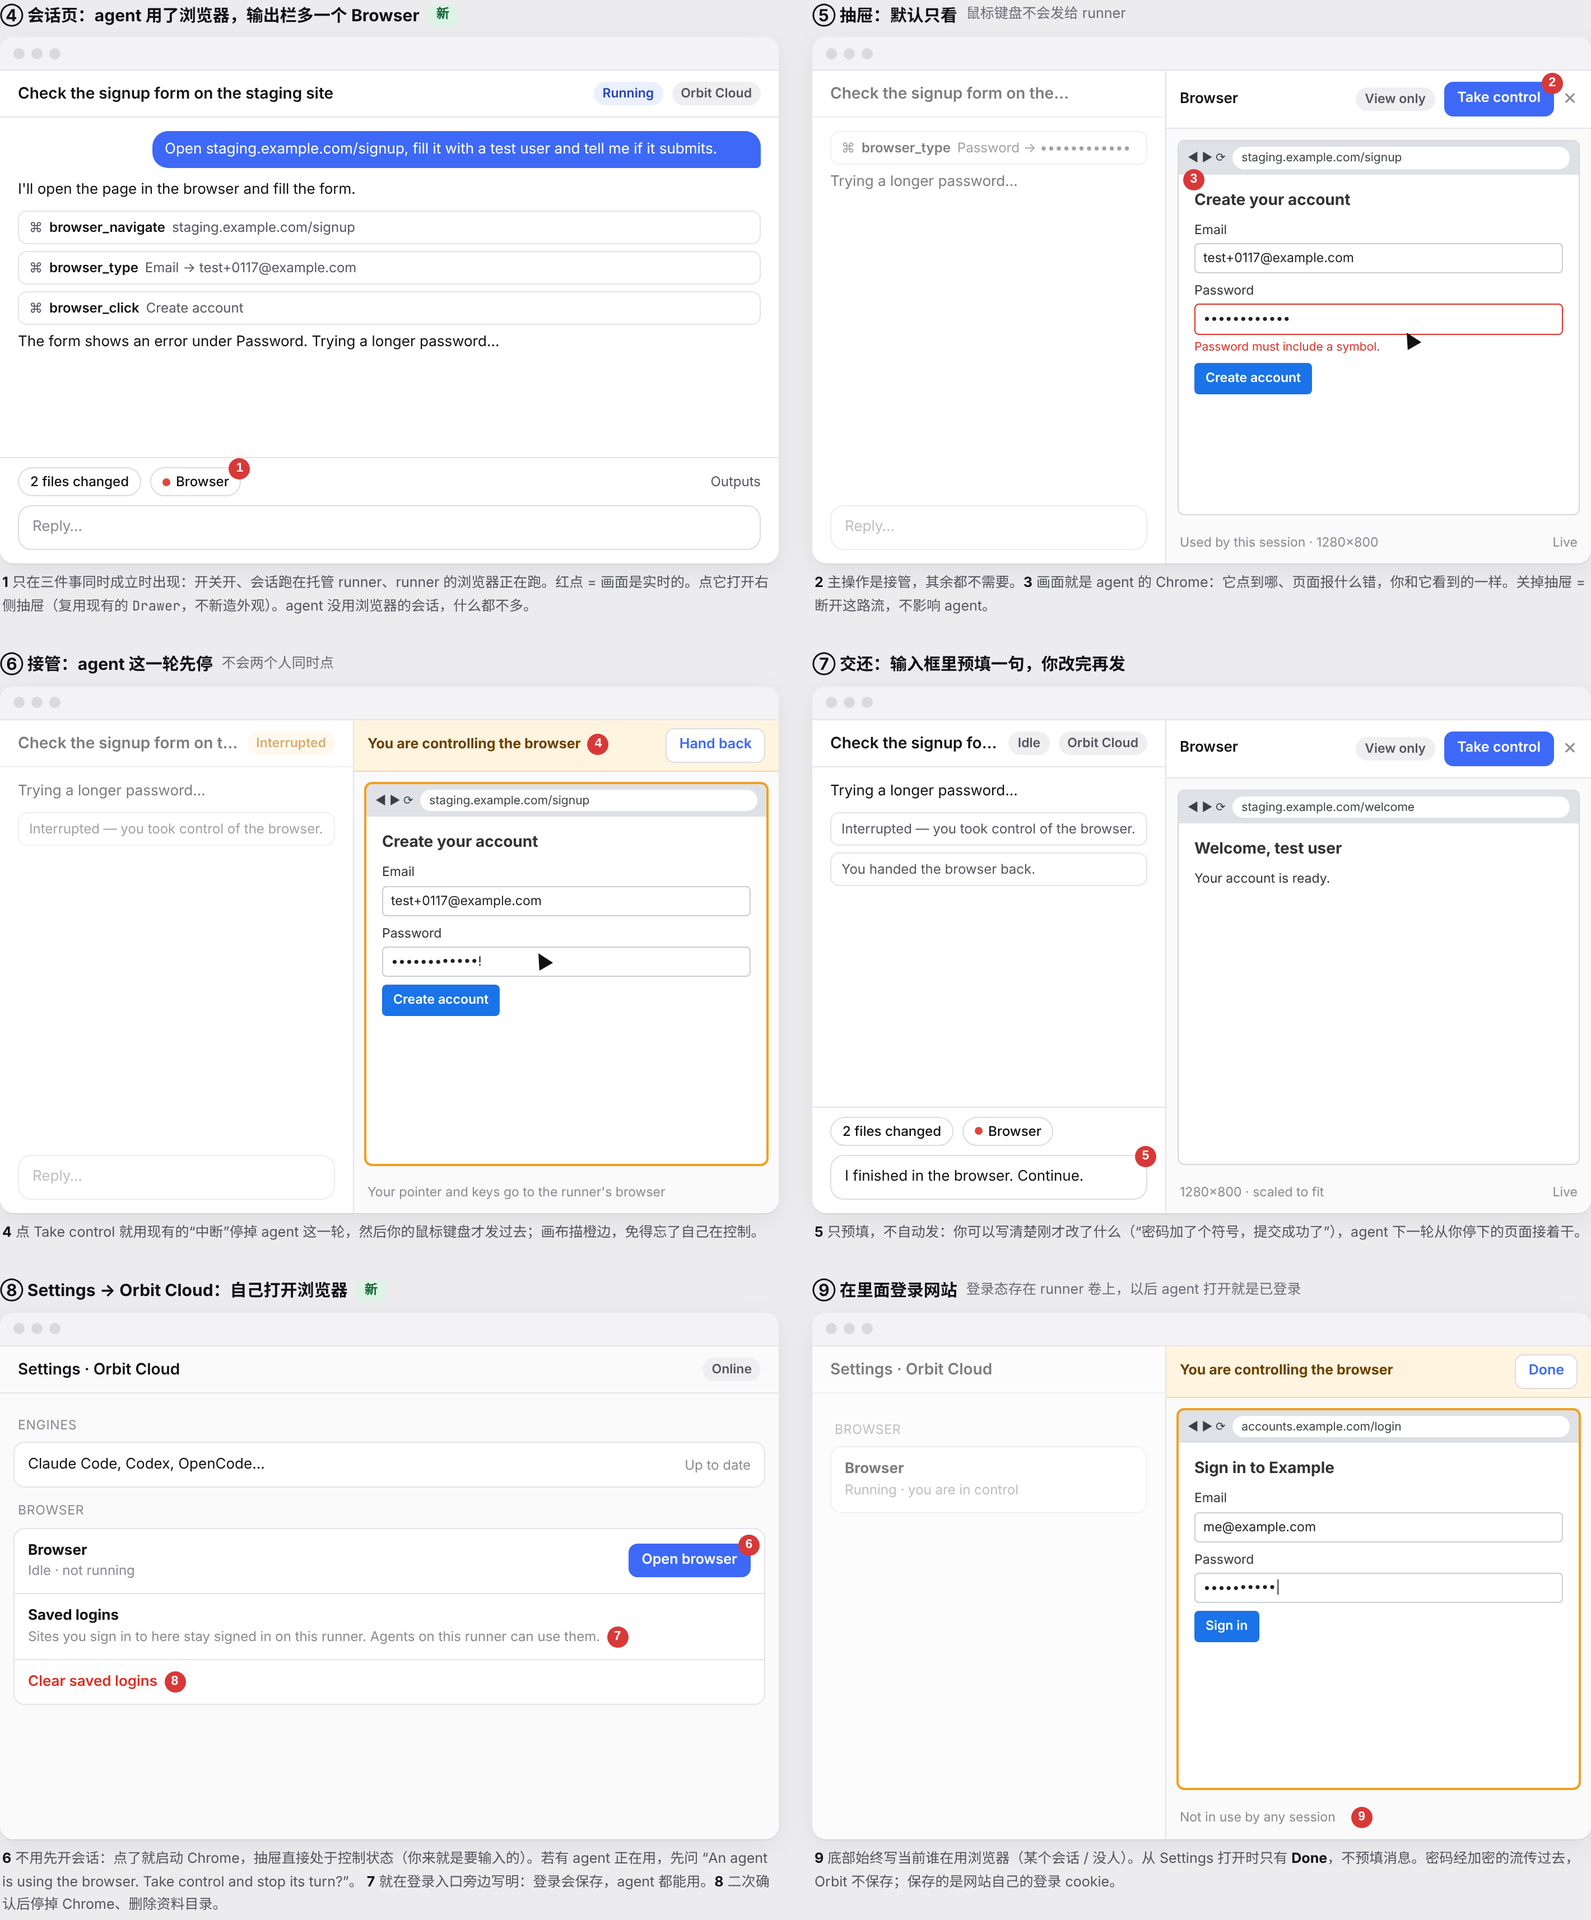
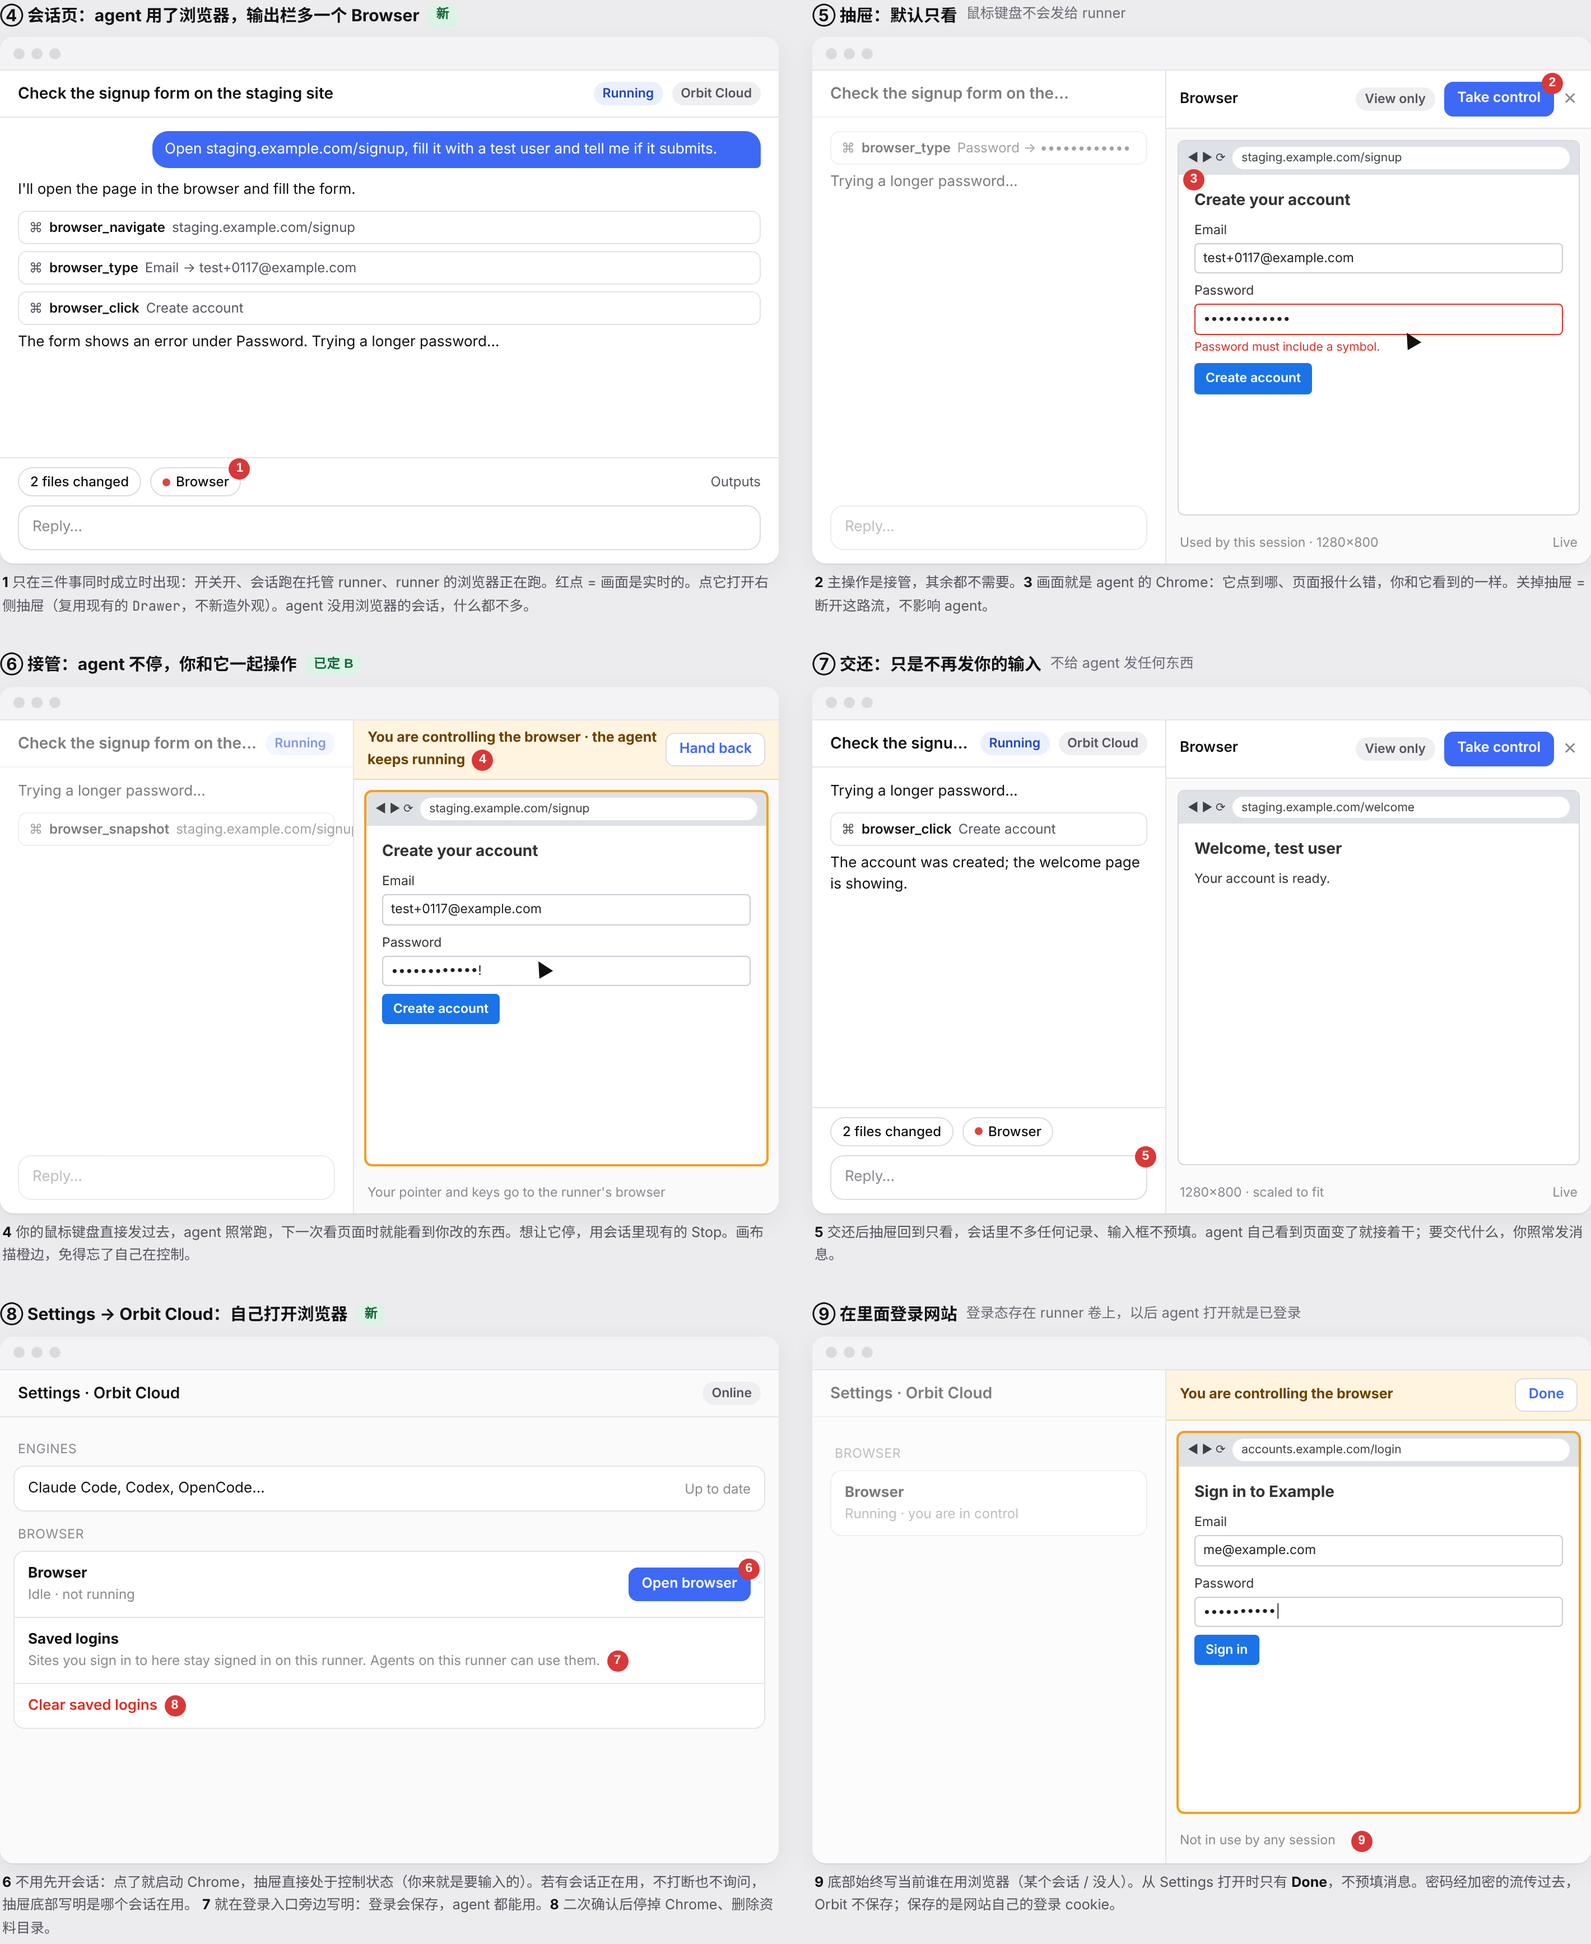
docs(runner-browser): owner decisions P1 A, P3 B (shared input), P4 A, P5 A

diff --git a/docs/mocks/runner-browser/01-board.html b/docs/mocks/runner-browser/01-board.html
@@ -226,17 +226,17 @@
     </div>
 
     <div>
-      <div class="fh">⑥ 接管：agent 这一轮先停 <small>不会两个人同时点</small></div>
+      <div class="fh">⑥ 接管：agent 不停，你和它一起操作 <span class="tag">已定 B</span></div>
       <div class="win">
         <div class="top"><i></i><i></i><i></i></div>
         <div class="body">
           <div class="main" style="opacity:.55">
-            <div class="hd"><span class="tt">Check the signup form on the…</span><span class="pill p-warn">Interrupted</span></div>
-            <div class="tx"><div class="ans">Trying a longer password…</div><div class="tool">Interrupted — you took control of the browser.</div></div>
+            <div class="hd"><span class="tt">Check the signup form on the…</span><span class="pill p-run">Running</span></div>
+            <div class="tx"><div class="ans">Trying a longer password…</div><div class="tool">⌘ <b>browser_snapshot</b> staging.example.com/signup</div></div>
             <div class="composer">Reply…</div>
           </div>
           <div class="drawer">
-            <div class="ctrlbar"><b class="x xin" data-n="4">You are controlling the browser</b><span class="btn">Hand back</span></div>
+            <div class="ctrlbar"><b class="x xin" data-n="4">You are controlling the browser · the agent keeps running</b><span class="btn">Hand back</span></div>
             <div class="canvas ctl">
               <div class="cbar">◀ ▶ ⟳ <span class="url">staging.example.com/signup</span></div>
               <div class="site">
@@ -251,23 +251,23 @@
           </div>
         </div>
       </div>
-      <p class="note"><b>4</b> 点 Take control 就用现有的“中断”停掉 agent 这一轮，然后你的鼠标键盘才发过去；画布描橙边，免得忘了自己在控制。</p>
+      <p class="note"><b>4</b> 你的鼠标键盘直接发过去，agent 照常跑，下一次看页面时就能看到你改的东西。想让它停，用会话里现有的 Stop。画布描橙边，免得忘了自己在控制。</p>
     </div>
 
     <div>
-      <div class="fh">⑦ 交还：输入框里预填一句，你改完再发</div>
+      <div class="fh">⑦ 交还：只是不再发你的输入 <small>不给 agent 发任何东西</small></div>
       <div class="win">
         <div class="top"><i></i><i></i><i></i></div>
         <div class="body">
           <div class="main">
-            <div class="hd"><span class="tt">Check the signup form on the staging site</span><span class="pill p-ok">Idle</span><span class="pill p-ok">Orbit Cloud</span></div>
+            <div class="hd"><span class="tt">Check the signup form on the staging site</span><span class="pill p-run">Running</span><span class="pill p-ok">Orbit Cloud</span></div>
             <div class="tx">
               <div class="ans">Trying a longer password…</div>
-              <div class="tool">Interrupted — you took control of the browser.</div>
-              <div class="tool">You handed the browser back.</div>
+              <div class="tool">⌘ <b>browser_click</b> Create account</div>
+              <div class="ans">The account was created; the welcome page is showing.</div>
             </div>
             <div class="outbar"><span class="chip">2 files changed</span><span class="chip live">Browser</span></div>
-            <div class="composer filled x" data-n="5">I finished in the browser. Continue.</div>
+            <div class="composer x" data-n="5">Reply…</div>
           </div>
           <div class="drawer">
             <div class="dh"><span class="tt">Browser</span><span class="pill p-ok">View only</span><span class="btn pri">Take control</span><span class="cl">✕</span></div>
@@ -279,7 +279,7 @@
           </div>
         </div>
       </div>
-      <p class="note"><b>5</b> 只预填，不自动发：你可以写清楚刚才改了什么（“密码加了个符号，提交成功了”），agent 下一轮从你停下的页面接着干。</p>
+      <p class="note"><b>5</b> 交还后抽屉回到只看，会话里不多任何记录、输入框不预填。agent 自己看到页面变了就接着干；要交代什么，你照常发消息。</p>
     </div>
 
     <div>
@@ -302,7 +302,7 @@
           </div>
         </div></div>
       </div>
-      <p class="note"><b>6</b> 不用先开会话：点了就启动 Chrome，抽屉直接处于控制状态（你来就是要输入的）。若有 agent 正在用，先问 “An agent is using the browser. Take control and stop its turn?”。
+      <p class="note"><b>6</b> 不用先开会话：点了就启动 Chrome，抽屉直接处于控制状态（你来就是要输入的）。若有会话正在用，不打断也不询问，抽屉底部写明是哪个会话在用。
         <b>7</b> 就在登录入口旁边写明：登录会保存，agent 都能用。<b>8</b> 二次确认后停掉 Chrome、删除资料目录。</p>
     </div>
 
@@ -339,14 +339,14 @@
 <section class="part" id="part-3">
   <div class="two">
     <div class="sheet">
-      <h2>待定 · 要你拍板</h2>
+      <h2>已定（2026-11-17）</h2>
       <table>
         <tr><th>#</th><th style="white-space:nowrap">问题</th><th>方案 A</th><th>方案 B</th><th>建议</th></tr>
-        <tr><td>P1</td><td style="white-space:nowrap">镜像</td><td>一个镜像，浏览器一直在里面，开关开了才启动</td><td>另出一个 <code>-browser</code> 镜像，开了才用它</td><td><b>A</b>：只构建、只测一个；代价是每台主机多拉约 350 MB（默认部署也会拉到，但不运行）</td></tr>
+        <tr><td>P1</td><td style="white-space:nowrap">镜像</td><td>一个镜像，浏览器一直在里面，开关开了才启动</td><td>另出一个 <code>-browser</code> 镜像，开了才用它</td><td><span class="tag">已定 A</span> 每台主机多拉约 350 MB，默认部署不运行</td></tr>
         <tr><td>P2</td><td>显示</td><td>每个会话一个，按需启动</td><td>每台 runner 一个，会话共用</td><td><span class="tag">已定 B</span> 你登录的、agent 登录的都保存；同一时间一个会话用</td></tr>
-        <tr><td>P3</td><td>接管</td><td>中断 agent 这一轮再交给你</td><td>你和 agent 同时操作</td><td><b>A</b>：不抢鼠标；复用现有中断</td></tr>
-        <tr><td>P4</td><td style="white-space:nowrap">谁能看</td><td>只有 runner 本人</td><td>本人和会话访客</td><td><b>A</b>（v1）：画面里可能有登录态</td></tr>
-        <tr><td>P5</td><td style="white-space:nowrap">首期客户端</td><td>只做网页</td><td>网页 + macOS</td><td><b>A</b>：原生端以后用 web view 套同一个 noVNC 页</td></tr>
+        <tr><td>P3</td><td>接管</td><td>中断 agent 这一轮再交给你</td><td>你和 agent 同时操作</td><td><span class="tag">已定 B</span> 接管不停 agent；要停用会话的 Stop</td></tr>
+        <tr><td>P4</td><td style="white-space:nowrap">谁能看</td><td>只有 runner 本人</td><td>本人和会话访客</td><td><span class="tag">已定 A</span> 画面里可能有登录态</td></tr>
+        <tr><td>P5</td><td style="white-space:nowrap">首期客户端</td><td>只做网页</td><td>网页 + macOS</td><td><span class="tag">已定 A</span> 原生端以后用 web view 套同一个页</td></tr>
       </table>
       <div class="q"><b>资源：</b>整台 runner 只有一个 Chrome，约 0.5–1.5 GiB，运营方把 runner 内存上限调高约 1.5 GiB。
         <br><b>安全：</b>不开入站端口、不改防火墙；VNC 只在容器内 unix socket 上，每路流先过 apiserver 鉴权；不录屏。保存的登录在 runner 卷上，runner 上所有 agent 都能用，Settings 里可一键清除。</div>

diff --git a/docs/runner-browser-design.md b/docs/runner-browser-design.md
@@ -1,6 +1,6 @@
 # Orbit Cloud browser: design (v1)
 
-**Status:** proposal (2026-11-17), nothing built. Board: `docs/mocks/runner-browser/`.
+**Status:** **decided** (owner, 2026-11-17), nothing built. P1 A, P2 B, P3 B, P4 A, P5 A. Board: `docs/mocks/runner-browser/`.
 
 An agent on an Orbit Cloud runner (the account's managed runner) drives a real Chrome, and the owner watches that
 Chrome live in their own browser and can take control of it. When the agent's run does not go as expected, the owner
@@ -12,7 +12,8 @@ Owner requirements (2026-11-17):
 - the feature **can be switched off**; it can be switched on **only for Orbit Cloud** (managed runners), and a
   default deployment has it **off**;
 - the owner can **open the browser themselves** and sign in to sites; those logins are kept and the agents use them;
-- the **whole runner shares one browser** (P2 = B): one Chrome, one saved profile, one session using it at a time.
+- the **whole runner shares one browser** (P2 = B): one Chrome, one saved profile, one session using it at a time;
+- **taking control does not stop the agent** (P3 = B): the owner's input and the agent's run side by side.
 
 ## 1. Today
 
@@ -63,7 +64,8 @@ runner over the existing link, and a viewer in the client.
 - **One session at a time (the browser lease).** The first session whose agent calls a browser tool holds the lease
   until its turn ends or it has made no browser call for 5 minutes. Another session's browser call meanwhile returns a
   tool error naming the holder ("The browser is in use by session …; try again after it finishes"), so the agent can
-  wait or do other work. The owner is never refused: taking control interrupts the holder's turn (§5).
+  wait or do other work. The owner is never refused and never takes the lease: their input goes to the browser
+  whoever holds it (§5).
 - **Shared state is accepted.** Sessions see each other's tabs, history and logins. Every agent on the runner can act
   on any site the profile is signed in to; the UI says so where the owner signs in (§5).
 - **Chrome flags.** `--no-sandbox` (the container drops every capability and sets `no-new-privileges`, so Chrome's
@@ -115,15 +117,14 @@ Two ways in, one viewer (the existing right-side `Drawer` with a noVNC canvas, `
   ("Sites you sign in to here stay signed in on this runner. Agents on this runner can use them."), and
   **Clear saved logins**, which stops Chrome and deletes the profile after a confirmation.
 
-Control:
+Control (P3 = B, shared input):
 
 - **View only by default** from a session. **Take control** sends pointer and keys; the header then says "You are
-  controlling the browser".
-- **Taking control interrupts the lease holder's turn** (the existing session interrupt), so the agent and the owner
-  never click at the same time. Opening the browser from Settings while an agent holds it asks first: "An agent is
-  using the browser. Take control and stop its turn?"
-- **Hand back** releases control. From a session it prefills the composer with "I finished in the browser.
-  Continue." for the owner to edit and send; from Settings it just closes control.
+  controlling the browser · the agent keeps running".
+- **Taking control does not interrupt the agent.** The owner and the agent both act on the same page; the agent sees
+  the owner's changes in its next page snapshot. The owner who wants the agent to stop uses the session's existing
+  Stop. Opening the browser from Settings while a session holds it says so in the drawer's footer and asks nothing.
+- **Hand back** (from a session) or **Done** (from Settings) only stops sending input. Nothing is sent to the agent.
 - macOS, iOS and Android come later; they can host the same noVNC page in a web view.
 
 ## 6. Security
@@ -139,15 +140,15 @@ Control:
 - Chrome's egress is the runner's: public addresses only.
 - Nothing is recorded. The agent's own screenshots stay in the transcript as today.
 
-## 7. Open decisions (each with a recommendation)
+## 7. Decisions
 
-| # | Question | A | B | Recommended |
+| # | Question | A | B | Decision |
 | --- | --- | --- | --- | --- |
-| P1 | Image | one image, browser always in it, started only when on | a second `-browser` image the manager picks when on | A: one image to build and test; +350 MB once per host |
+| P1 | Image | one image, browser always in it, started only when on | a second `-browser` image the manager picks when on | **decided A** (owner, 2026-11-17) |
 | P2 | Display | one per session, on demand | one per runner, shared by its sessions | **decided B** (owner, 2026-11-17): logins persist and agents use them |
-| P3 | Take control | interrupts the agent's turn | shared input, the agent keeps running | A: no tug of war; reuses interrupt |
-| P4 | Who can watch | the runner's owner only | owner and session guests | A in v1 |
-| P5 | Clients in v1 | web only | web and macOS | A; the native clients host the same page later |
+| P3 | Take control | interrupts the agent's turn | shared input, the agent keeps running | **decided B** (owner, 2026-11-17) |
+| P4 | Who can watch | the runner's owner only | owner and session guests | **decided A** (owner, 2026-11-17) |
+| P5 | Clients in v1 | web only | web and macOS | **decided A** (owner, 2026-11-17) |
 
 ## 8. Phases (by cost)
 
@@ -155,7 +156,7 @@ Control:
    `browser` MCP server for Claude Code and Codex first. Agents can use a browser; nobody watches yet.
 2. **Stream** — the four link frames, gateway relay, apiserver WebSocket route, nginx location, runner socket bridge.
 3. **Web viewer** — Browser chip, Settings' Open browser and Clear saved logins, drawer, view only, take control
-   and hand back.
+   and hand back (shared input).
 4. **Later** — the remaining engines, native clients, guests.
 
 Each phase is tested on the managed-runner lab (`scripts/managed-runner/lab/`) with the switch on, and with it off to

diff --git a/docs/mocks/runner-browser/README.md b/docs/mocks/runner-browser/README.md
@@ -2,14 +2,14 @@
 
 Orbit Cloud runner（托管 runner）里的 agent 用真的 Chrome 干活；你在自己的浏览器里实时看到画面（WebVNC），不对劲时接管。只有 Orbit Cloud 能开，默认部署关闭（`ORBIT_MANAGED_RUNNER_BROWSER_ENABLED`，依赖 `ORBIT_MANAGED_RUNNERS_ENABLED`）。
 
-提案（2026-11-17）。已定：P2 = B，整台 runner 共用一个浏览器，登录态保存在 runner 卷上、agent 直接用；可以在 Settings 里自己打开登录。P1、P3–P5 待定。设计文档：[`docs/runner-browser-design.md`](../../runner-browser-design.md)。
+提案（2026-11-17）。已定：P2 = B，整台 runner 共用一个浏览器，登录态保存在 runner 卷上、agent 直接用；可以在 Settings 里自己打开登录。P1 A、P3 B（接管不停 agent，两边一起操作）、P4 A、P5 A，同日都定了。设计文档：[`docs/runner-browser-design.md`](../../runner-browser-design.md)。
 
 | 图 | 内容 |
 | --- | --- |
 | [`01-board.png`](01-board.png) | 整板 |
 | [`01-board-1.png`](01-board-1.png) | ① 今天 ② 新链路（不开入站端口）③ 开关 |
 | [`01-board-2.png`](01-board-2.png) | ④ 会话页的 Browser 标签 ⑤ 抽屉只看 ⑥ 接管 ⑦ 交还 ⑧ Settings 里自己打开 ⑨ 在里面登录 |
-| [`01-board-3.png`](01-board-3.png) | 待定 P1–P5、资源与安全、落地顺序 |
+| [`01-board-3.png`](01-board-3.png) | 已定 P1–P5、资源与安全、落地顺序 |
 
 ## 怎么做的
 
